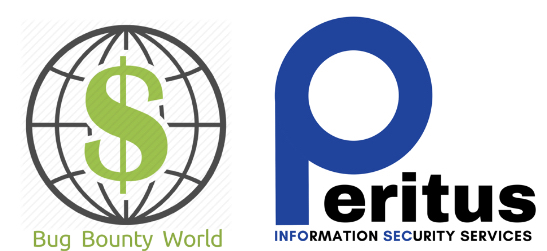
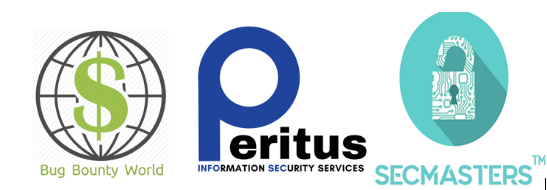
GitBook: [master] one page and 2 assets modified

diff --git a/owasp-seasides/sponsor.md b/owasp-seasides/sponsor.md
@@ -1,33 +1,16 @@
 # Sponsors
 
-**Platinum Sponsor**
-
-* **Bug Crowd**
-
-**Gold Sponsor**
-
-* **Anlyz**
-* **Security Innovation**
-* **Bug Bounty World +** [**Peritus**](http://www.peritusinfosec.com/) **+** [**Secmasters**](https://www.secmasters.com/) 
-
-**Bronze Sponsor**
-
-* **InTouch World**
-* **we45**
-
-**Special Supporters**
-
-* [**Enciphers**](https://enciphers.com/)\*\*\*\*
-
 _**Platinum Sponsors**_
 
-\*\*\*\*![](../.gitbook/assets/bugcrowd.png)\*\*\*\*
-
-\*\*\*\*
+![](../.gitbook/assets/bugcrowd.png)
 
 **Gold Sponsors**
 
-[![](../.gitbook/assets/logo.png)](https://www.anlyz.co) [![](../.gitbook/assets/silogostacked.png)](https://www.securityinnovation.com) [![](../.gitbook/assets/combined-gold-sponsor.png)](http://www.peritusinfosec.com)
+[![](../.gitbook/assets/logo.png)](https://www.anlyz.co) [![](../.gitbook/assets/silogostacked.png)](https://www.securityinnovation.com)
+
+**Combined Gold Sponsor** \(**Bug Bounty World +** [**Peritus**](http://www.peritusinfosec.com/) **+** [**Secmasters**](https://www.secmasters.com/)**\)**
+
+![](../.gitbook/assets/combined-gold-sponsor.png)
 
 **Bronze Sponsors**
 
